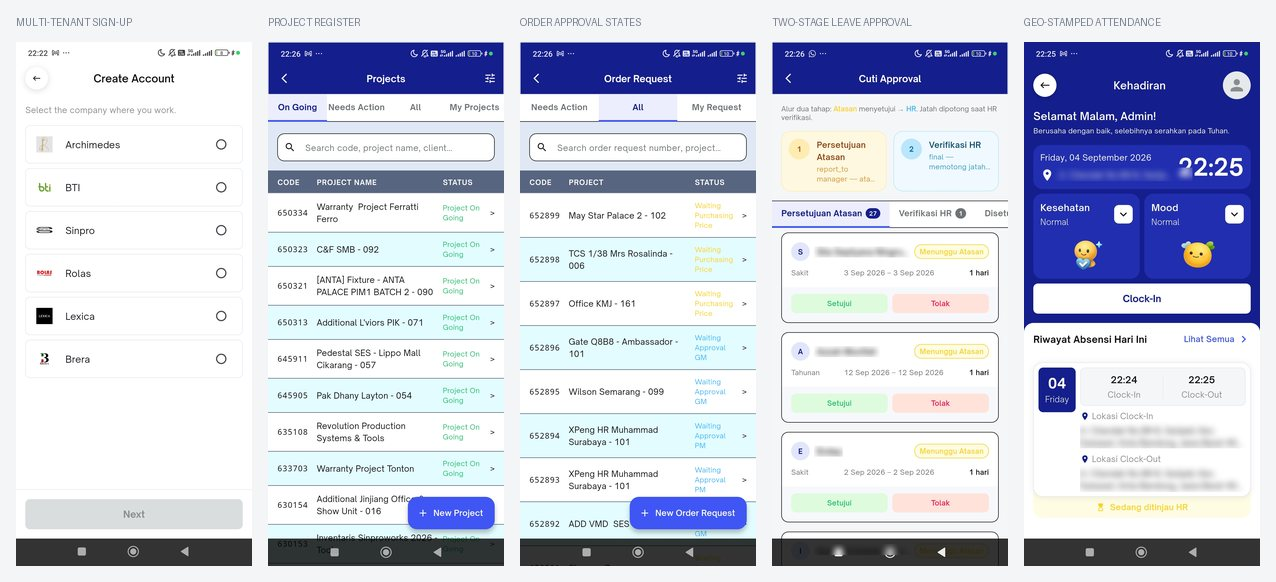
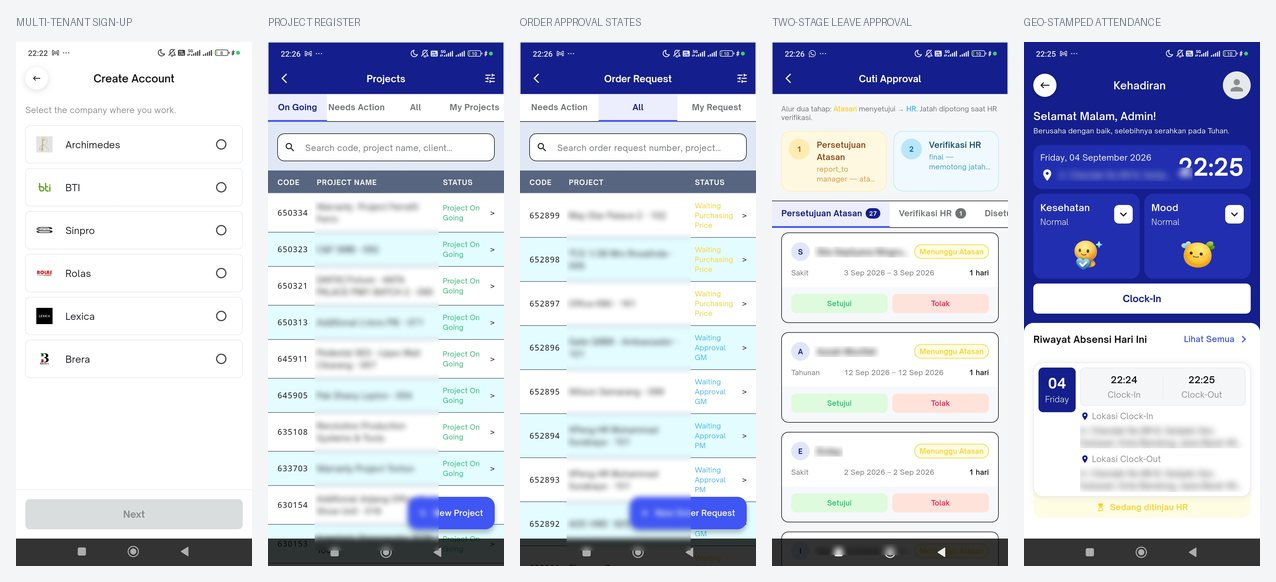
Add Workpath web register; blur client and project names

diff --git a/index.html b/index.html
@@ -398,8 +398,13 @@ footer .wrap{display:flex; flex-wrap:wrap; gap:12px; justify-content:space-betwe
         </figure>
 
         <figure style="margin:16px 0 6px">
+          <img src="workpath-web.jpg" alt="The web project register: a sortable, filterable table of projects with dates, project status and operational status, plus audit columns for who created and last changed each record" loading="lazy" style="width:100%;display:block;border-radius:10px;border:1px solid var(--line)">
+          <figcaption class="shots-note" style="margin-top:8px">The web register &mdash; filters, dual status, and a full audit trail per project</figcaption>
+        </figure>
+
+        <figure style="margin:16px 0 6px">
           <img src="workpath-mobile.jpg" alt="Five Workpath mobile screens: company selection at sign-up, the project register, order requests with per-stage approval states, two-stage leave approval, and geo-stamped attendance" loading="lazy" style="width:100%;display:block;border-radius:10px;border:1px solid var(--line)">
-          <figcaption class="shots-note" style="margin-top:8px">The mobile flow &mdash; names and addresses blurred</figcaption>
+          <figcaption class="shots-note" style="margin-top:8px">The mobile flow &mdash; client, project and personal details blurred</figcaption>
         </figure>
 
         <ul class="did">
@@ -407,6 +412,7 @@ footer .wrap{display:flex; flex-wrap:wrap; gap:12px; justify-content:space-betwe
           <li><strong>Approval states are the product.</strong> Order requests move through Waiting Purchasing Price &rarr; Waiting Approval PM &rarr; Waiting Approval GM, each stage owned by a role rather than a person, so the chain survives staff changes.</li>
           <li><strong>Two-stage leave approval with the rule stated in the UI:</strong> line manager approves, then HR verifies &mdash; and the entitlement is only deducted at HR verification, which is where most leave systems get the accounting wrong.</li>
           <li><strong>Attendance is geo-stamped and reviewable</strong> &mdash; clock-in and clock-out each capture a location, and the record is held for HR review rather than trusted blindly.</li>
+          <li><strong>Every record carries its own audit trail</strong> &mdash; created by, created at, last changed by, last changed at &mdash; on the register itself rather than buried in a log.</li>
           <li><strong>Genuinely multi-tenant:</strong> a new user picks their company at sign-up and the whole workspace &mdash; branding, projects, approval chains &mdash; follows from that choice.</li>
           <li>Project milestones on a Gantt timeline; HR and attendance with a mobile flow; sales and accounts receivable; unified notification pipeline; PDF/XLSX reporting.</li>
           <li>Deployed on Kubernetes with API and UI end-to-end suites in CI before each release.</li>
